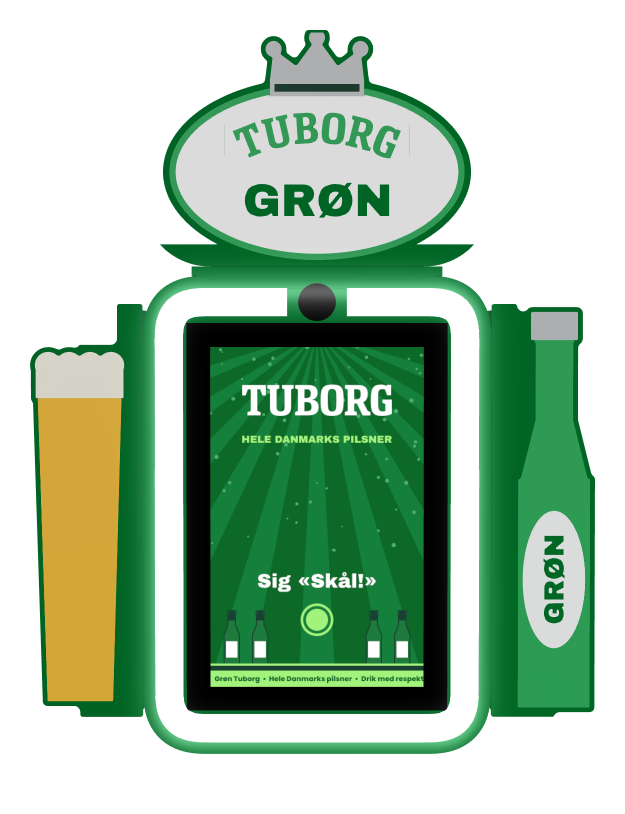
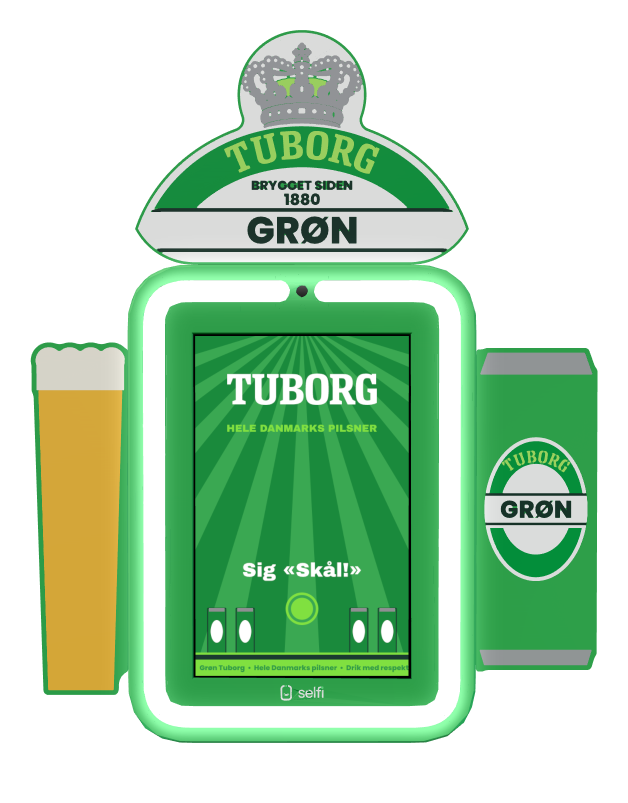
Tuborg-katalog opdateret til v6: grøn boks, dåsen, nye renders og rammer
Claude-Session: https://claude.ai/code/session_01HEVL7d6HdEt8PCccQ9cKiW

diff --git a/web/app/erhverv/tuborg/page.tsx b/web/app/erhverv/tuborg/page.tsx
@@ -9,7 +9,7 @@ import { Box3D } from "./Box3D";
 // selfi.dk/erhverv/tuborg: the sales catalogue for Tuborg (Carlsberg Danmark), sixteen A4 pages that print to a PDF.
 // The deal is a brand deal, not a venue deal: Tuborg pays for one box per bar, the bar hangs it up itself, and
 // every photo and video carries the Tuborg wordmark. The box is shown only in the Tuborg design on the gen 2 unit
-// (the crown and label of the Danish Grøn Tuborg on top, a Grøn Tuborg bottle and a draught glass on the sides). What sells
+// (the crown and label of the Danish Grøn Tuborg can on top, the box in the can's green, a Grøn Tuborg can and a draught glass on the sides). What sells
 // it to a brand: the network of bars in one view, one-click campaigns on every box (J-dag at 20:59), the bar's
 // own name next to Tuborg, numbers per bar and responsible drinking built in. No prices: they are agreed per deal.
 // It stays out of search and the sitemap.
@@ -24,7 +24,7 @@ export const metadata: Metadata = {
 };
 
 const IMG = "/katalog/tuborg";
-const PAL = { green: "#0c6928", can: "#309654", deep: "#1a4033", lime: "#a2f37c", silver: "#adadb0", white: "#ffffff", cream: "#f4ead2", beer: "#e7a21f", blue: "#123a8c" };
+const PAL = { green: "#1a8a3c", can: "#2e9a48", deep: "#1a3a30", lime: "#80e040", silver: "#adadb0", white: "#ffffff", cream: "#f4ead2", beer: "#e7a21f", blue: "#123a8c" };
 const kr = (n: number) => n.toLocaleString("da-DK");
 
 // The can's green rims along the top of a page.
@@ -117,7 +117,7 @@ export default function TuborgKatalog() {
             <span className="kat-kicker">Forslag · 2026/27</span>
           </div>
           {/* eslint-disable-next-line @next/next/no-img-element */}
-          <img className="kat-box kat-glow" src={`${IMG}/boks-tuborg.png`} alt="Selfi Boks i Tuborg-design med kronen og Grøn Tuborg-etiketten på toppen, en Grøn Tuborg-flaske på den ene side og et fadølsglas på den anden" style={{ width: 430, marginTop: -6 }} />
+          <img className="kat-box kat-glow" src={`${IMG}/boks-tuborg.png`} alt="Selfi Boks i Tuborgs grønne farve med kronen og Grøn Tuborg-etiketten på toppen, en Grøn Tuborg-dåse på den ene side og et fadølsglas på den anden" style={{ width: 430, marginTop: -6 }} />
           <h1 className="kat-center">Tuborg på hvert billede</h1>
           <p className="kat-lede kat-center">Et udkast til Tuborg: en fotoboks i Tuborgs design i Danmarks barer, der tager billeder og videoer af gæsterne og sætter Tuborg på alt, der deles.</p>
           <Band />
@@ -128,7 +128,7 @@ export default function TuborgKatalog() {
           <span className="kat-kicker">Til Tuborg</span>
           <h2>Skålen bliver allerede taget</h2>
           <p className="kat-lede" style={{ maxWidth: "44ch" }}>
-            Hver aften rejser tusindvis af gæster glasset i en bar, der skænker Tuborg, og hver aften bliver det øjeblik fotograferet. Men Tuborg står sjældent på billedet. Selfi Boks er bygget i jeres design med kronen og Grøn Tuborg-etiketten, en grøn flaske og et fadølsglas med skum. Den hænger i baren, tager billeder og korte videoer af gæsterne og sætter Tuborg på alt, der deles.
+            Hver aften rejser tusindvis af gæster glasset i en bar, der skænker Tuborg, og hver aften bliver det øjeblik fotograferet. Men Tuborg står sjældent på billedet. Selfi Boks er bygget i jeres design: kabinettet i dåsens grøn, kronen og Grøn Tuborg-etiketten på toppen, en Grøn Tuborg-dåse og et fadølsglas med skum. Den hænger i baren, tager billeder og korte videoer af gæsterne og sætter Tuborg på alt, der deles.
           </p>
           <div className="kat-sign">
             <b>Skål for i aften</b>
@@ -195,7 +195,7 @@ export default function TuborgKatalog() {
         <Page n={4} cap="Designet" dark>
           <Rim />
           <span className="kat-kicker">Designet</span>
-          <h2>Kronen, flasken og glasset</h2>
+          <h2>Kronen, dåsen og glasset</h2>
           <p className="kat-lede">Ét design styrer fire lag, så boksen ligner en del af baren og Tuborgs univers, ikke en automat, der er stillet ind.</p>
           <div className="kat-theme">
             {/* eslint-disable-next-line @next/next/no-img-element */}
@@ -203,7 +203,7 @@ export default function TuborgKatalog() {
             <div className="kat-layers">
               <div>
                 <b>Top og sider</b>
-                Toppen af Grøn Tuborg-etiketten, som den ser ud i Danmark: kronen over en hvid etiket med TUBORG i bue og »GRØN«. En grøn flaske på den ene side og et fadølsglas med skum på den anden. Få, rolige former i jeres farver, printet massive og robuste nok til en fredag aften.
+                Toppen er etiketten fra Grøn Tuborg-dåsen, som den ser ud i Danmark: kongekronen, TUBORG i bue, »Brygget siden 1880« og »GRØN«. Selve boksen er printet i dåsens grøn med den hvide lysring rundt om skærmen. En Grøn Tuborg-dåse på den ene side og et fadølsglas med skum på den anden. Få, rolige former, printet massive og robuste nok til en fredag aften.
                 <Swatches keys={["green", "can", "white", "silver", "beer"]} />
               </div>
               <div>
@@ -211,7 +211,7 @@ export default function TuborgKatalog() {
                 <Swatches keys={["white", "lime", "blue"]} />
               </div>
               <div>
-                <b>Skærm</b>Ordmærket over lys og perler, »Hele Danmarks pilsner« og »Sig «Skål!»«.
+                <b>Skærm</b>Ordmærket over grønne lysstråler og en række Grøn Tuborg-dåser, »Hele Danmarks pilsner« og »Sig «Skål!»«.
               </div>
               <div>
                 <b>Hvert foto og hver video</b>Tuborg-rammen, barens egen ramme med Tuborg ved siden af, eller aftenens kampagne.
@@ -237,7 +237,7 @@ export default function TuborgKatalog() {
             {/* eslint-disable-next-line @next/next/no-img-element */}
             <img className="kat-box" src={`${IMG}/boks-tuborg-skraa-venstre.png`} alt="Tuborg-boksen set skråt fra venstre med fadølsglasset forrest" />
             {/* eslint-disable-next-line @next/next/no-img-element */}
-            <img className="kat-box" src={`${IMG}/boks-tuborg-skraa-hoejre.png`} alt="Tuborg-boksen set skråt fra højre med den grønne flaske forrest" />
+            <img className="kat-box" src={`${IMG}/boks-tuborg-skraa-hoejre.png`} alt="Tuborg-boksen set skråt fra højre med Grøn Tuborg-dåsen forrest" />
           </div>
           <Band />
           <Folio n={5} />

diff --git a/web/app/erhverv/tuborg/tuborg.css b/web/app/erhverv/tuborg/tuborg.css
@@ -2,23 +2,23 @@
    tuborg.dk's campaigns. The same rules sit in kataloger/tuborg.css for the copy that lives in the database. */
 .kat.kat--tuborg {
   --k-night: #00351f;
-  --k-base: #0c6928;
-  --k-forest: #0a4a22;
-  --k-leaf: #a2f37c;
-  --k-lime: #a2f37c;
-  --k-red: #a2f37c;
+  --k-base: #1a8a3c;
+  --k-forest: #126a2c;
+  --k-leaf: #80e040;
+  --k-lime: #80e040;
+  --k-red: #80e040;
   --k-cream: #f7f3e8;
   --k-ink: #0c2016;
   --k-line-dark: rgba(247, 243, 232, 0.2);
   --k-line-light: rgba(12, 32, 22, 0.16);
 }
-.kat--tuborg .kat-pg--dark { background: radial-gradient(120% 70% at 50% 0%, #1d8a45, #0c6928 45%, #0a4a22); }
-.kat--tuborg .kat-glow { background: radial-gradient(closest-side, rgba(244, 234, 210, 0.28), rgba(162, 243, 124, 0.12) 60%, transparent); }
-.kat--tuborg .kat-screen { box-shadow: 0 0 0 6px #ffffff, 0 0 40px 8px rgba(162, 243, 124, 0.4); }
-.kat--tuborg .kat-tag { background: rgba(162, 243, 124, 0.22); }
-.kat--tuborg .kat-rec-screen { background: radial-gradient(circle at 50% 42%, rgba(162, 243, 124, 0.28), transparent 55%), linear-gradient(180deg, #1d8a45, #0c6928 60%, #0a4a22); }
+.kat--tuborg .kat-pg--dark { background: radial-gradient(120% 70% at 50% 0%, #2e9a48, #1a8a3c 45%, #126a2c); }
+.kat--tuborg .kat-glow { background: radial-gradient(closest-side, rgba(244, 234, 210, 0.28), rgba(128, 224, 64, 0.12) 60%, transparent); }
+.kat--tuborg .kat-screen { box-shadow: 0 0 0 6px #ffffff, 0 0 40px 8px rgba(128, 224, 64, 0.4); }
+.kat--tuborg .kat-tag { background: rgba(128, 224, 64, 0.22); }
+.kat--tuborg .kat-rec-screen { background: radial-gradient(circle at 50% 42%, rgba(128, 224, 64, 0.28), transparent 55%), linear-gradient(180deg, #2e9a48, #1a8a3c 60%, #126a2c); }
 .kat--tuborg .kat-qs span { background: rgba(255, 255, 255, 0.14); }
-.kat--tuborg .kat-qs span:nth-child(3n + 2) { background: #a2f37c; color: #0c2016; }
+.kat--tuborg .kat-qs span:nth-child(3n + 2) { background: #80e040; color: #0c2016; }
 .kat--tuborg .kat-qs span:nth-child(3n) { background: #ffffff; color: var(--k-ink); }
 .kat--tuborg .kat-setup2 .kat-box { filter: drop-shadow(0 18px 24px rgba(0, 40, 22, 0.32)); }
 .kat--tuborg .kat-partner-logo { height: calc(var(--lk) * 0.62); width: auto; }
@@ -29,25 +29,25 @@
 
 /* the label's green rims along the top of a page and its green and lime band along the bottom */
 .kat-rim { position: absolute !important; left: 0; right: 0; top: 0; height: 20px; z-index: 0 !important; pointer-events: none;
-  background: linear-gradient(180deg, #309654 0 7px, transparent 7px 11px, #a2f37c 11px 14px, transparent 14px); }
+  background: linear-gradient(180deg, #2e9a48 0 7px, transparent 7px 11px, #80e040 11px 14px, transparent 14px); }
 .kat-band { position: absolute !important; left: 0; right: 0; bottom: 0; z-index: 0 !important;
-  background: linear-gradient(180deg, #a2f37c 0 22%, #309654 22% 52%, #ffffff 52% 64%, #0c6928 64%); }
+  background: linear-gradient(180deg, #80e040 0 22%, #2e9a48 22% 52%, #ffffff 52% 64%, #1a8a3c 64%); }
 .kat-pg .kat-folio { z-index: 3 !important; }
 .kat--tuborg .kat-folio { bottom: 36px; }
 .kat--tuborg .kat-pg--dark .kat-top { margin-top: 16px; }
 
 /* who gets what */
 .kat-who { display: grid; grid-template-columns: repeat(3, 1fr); gap: 18px; margin-top: 18px; }
-.kat-who > div { border-top: 3px solid #a2f37c; padding-top: 12px; }
-.kat-who b { display: block; font: 400 20px/1.1 var(--font-partner), serif; margin-bottom: 8px; color: #a2f37c; }
+.kat-who > div { border-top: 3px solid #80e040; padding-top: 12px; }
+.kat-who b { display: block; font: 400 20px/1.1 var(--font-partner), serif; margin-bottom: 8px; color: #80e040; }
 .kat-who ul { margin: 0; padding: 0; list-style: none; display: grid; gap: 8px; }
 .kat-who li { font-size: 13px; line-height: 1.4; opacity: 0.9; padding-left: 14px; position: relative; }
-.kat-who li::before { content: ""; position: absolute; left: 0; top: 7px; width: 6px; height: 6px; border-radius: 50%; background: #a2f37c; }
+.kat-who li::before { content: ""; position: absolute; left: 0; top: 7px; width: 6px; height: 6px; border-radius: 50%; background: #80e040; }
 
 /* campaigns through the year */
 .kat-year { display: grid; grid-template-columns: 1fr 1fr; gap: 16px 26px; margin-top: 10px; }
-.kat-year div { border-left: 3px solid #a2f37c; padding: 2px 0 4px 14px; }
-.kat-year b { font: 400 15px/1.2 var(--font-partner), serif; color: #a2f37c; }
+.kat-year div { border-left: 3px solid #80e040; padding: 2px 0 4px 14px; }
+.kat-year b { font: 400 15px/1.2 var(--font-partner), serif; color: #80e040; }
 .kat-year h3 { font-size: 17px !important; margin: 4px 0 4px; }
 .kat-year p { font-size: 13px !important; opacity: 0.86; }
 
@@ -70,12 +70,12 @@
 
 /* a screen next to its explanation */
 .kat-side { display: grid; grid-template-columns: 250px 1fr; gap: 34px; align-items: start; }
-.kat-side img { display: block; width: 100%; height: auto; border-radius: 10px; box-shadow: 0 0 0 6px #ffffff, 0 0 40px 8px rgba(162, 243, 124, 0.4); }
+.kat-side img { display: block; width: 100%; height: auto; border-radius: 10px; box-shadow: 0 0 0 6px #ffffff, 0 0 40px 8px rgba(128, 224, 64, 0.4); }
 .kat-side .kat-places { gap: 14px; }
 
 /* the box in 3D: drag to turn it, the render underneath until it is ready and in print */
 .kat-3d-wrap { position: relative; height: 470px; flex: none; border-radius: 28px;
-  background: radial-gradient(closest-side, rgba(162, 243, 124, 0.26), rgba(162, 243, 124, 0.07) 62%, transparent); }
+  background: radial-gradient(closest-side, rgba(128, 224, 64, 0.26), rgba(128, 224, 64, 0.07) 62%, transparent); }
 .kat-3d { position: absolute; inset: 0; }
 .kat-3d-poster { position: absolute; inset: 6% 0; margin: auto; height: 88%; width: auto; transition: opacity 500ms ease; filter: drop-shadow(0 24px 30px rgba(0, 0, 0, 0.45)); }
 .kat-3d.is-ready .kat-3d-poster { opacity: 0; }
